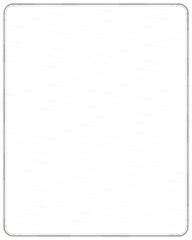
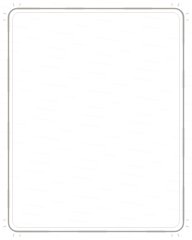
feat(cards): 应用第二版字牌框设计
设计侧重做:边框 12px(6.25% 牌宽)、木纹由五层减到三层、螺钿反而放大到 r=5.6。
比上一版我程序化收窄的干净 —— 层数是真减了,不是挤在细边里。

9-slice border 因此要重定:**必须盖住四角的全部装饰,而不只是边框宽度**。
螺钿圆心 (12,13) 半径 5.6 一直探到 17.6,border 给 13 会把它切进可拉伸区,
拉出来的钿点是扁的(已实测对比)。故紫檀取 19;白框角饰只是几根 0.8px 淡线,
超出部分变形无感,取 14 够用。

原稿目录随新稿移除,slim_card_frame.py 一并删除 —— 它硬编码的是旧稿几何坐标,
对新稿完全不适用,留着是误导。

Claude-Session: https://claude.ai/code/session_01BbPFfrf7mzvPQtpbh9RoKw

Changed region(s): [[0.0, 0.0, 1.0, 0.9917]]

diff --git a/Brushblade/Assets/_Project/Presentation/Cards/CardFrames.cs b/Brushblade/Assets/_Project/Presentation/Cards/CardFrames.cs
@@ -24,13 +24,14 @@ namespace Brushblade.Presentation
 
         /// <summary>各档的 9-slice border(左/下/右/上,基准画布像素)与内容区缩进(占牌宽比例)。
         /// border 要盖住圆角(rx=12)与边框装饰,否则拉伸会把四角拉花。
-        /// 2026-07-28 随边框瘦身两度下调(试玩反馈「边太厚、笨重」):
-        /// 紫檀内挖 24→12px(12.5%→6.2% 牌宽),见 tools/design/slim_card_frame.py。
-        /// border 取 13 略大于边框:圆角 rx=12 必须完整落在不拉伸区,否则四角会被拉花。</summary>
+        /// border 必须盖住**四角的全部装饰**,不只是边框宽度 —— 紫檀的螺钿点圆心在 (12,13)、
+        /// 半径 5.6,一直探到 17.6,border 给 13 会把它切在可拉伸区里,拉出来是扁的(实测)。
+        /// 故紫檀取 19;白框角饰只是几根 0.8px 淡线,超出部分变形无感,取 14 够用。
+        /// (2026-07-28 第二版设计稿:边框 12px = 6.25% 牌宽,木纹三层,螺钿反而放大。)</summary>
         private static readonly Dictionary<CardRarity, (Vector4 border, float insetX, float insetY)> Metrics = new()
         {
-            { CardRarity.White, (new Vector4(13, 13, 13, 13), 0.045f, 0.040f) },
-            { CardRarity.Purple, (new Vector4(13, 13, 13, 13), 0.075f, 0.068f) },
+            { CardRarity.White, (new Vector4(14, 14, 14, 14), 0.045f, 0.040f) },
+            { CardRarity.Purple, (new Vector4(19, 19, 19, 19), 0.078f, 0.070f) },
         };
 
         private static readonly Dictionary<string, Sprite> Cache = new();
